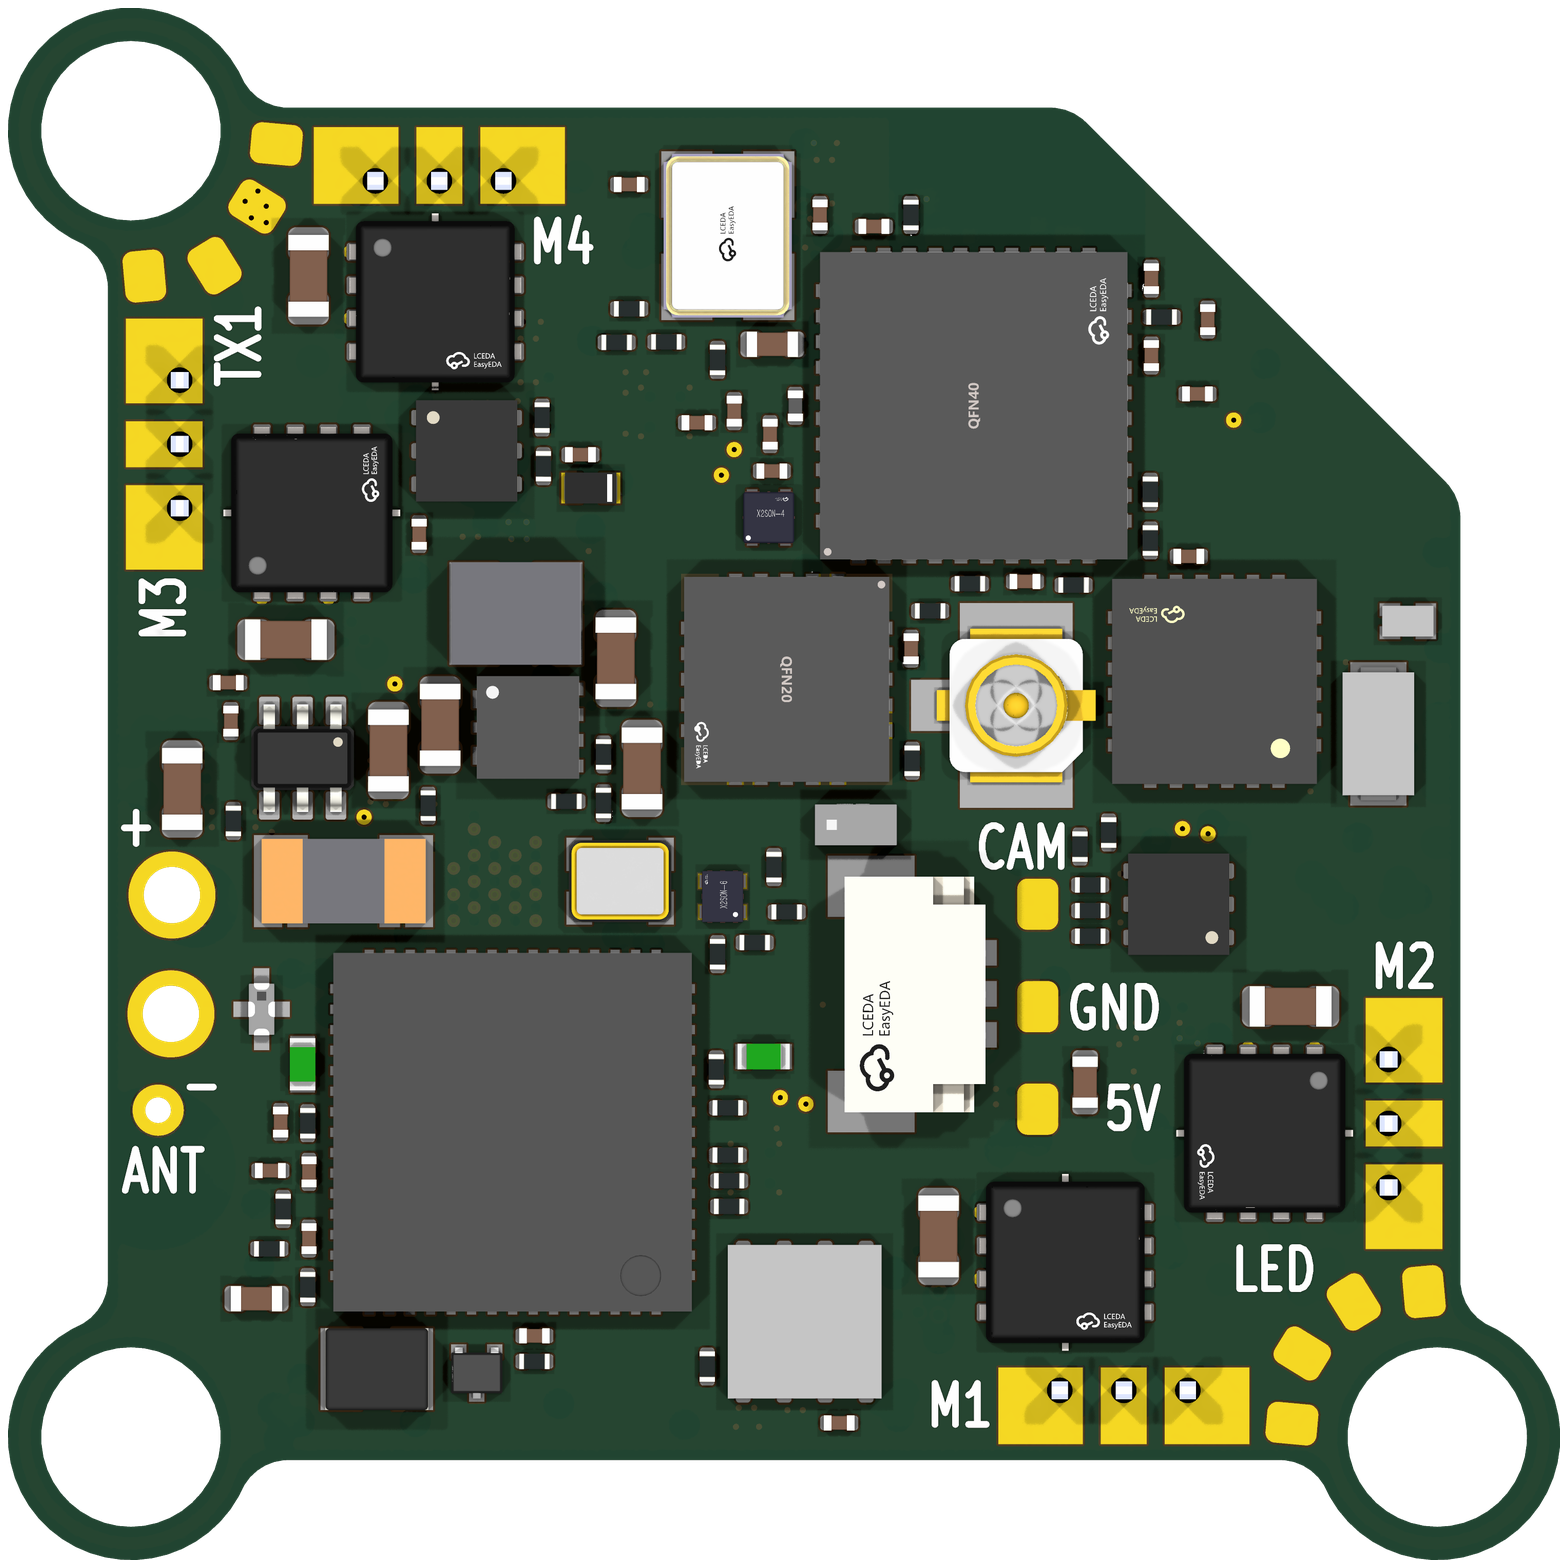
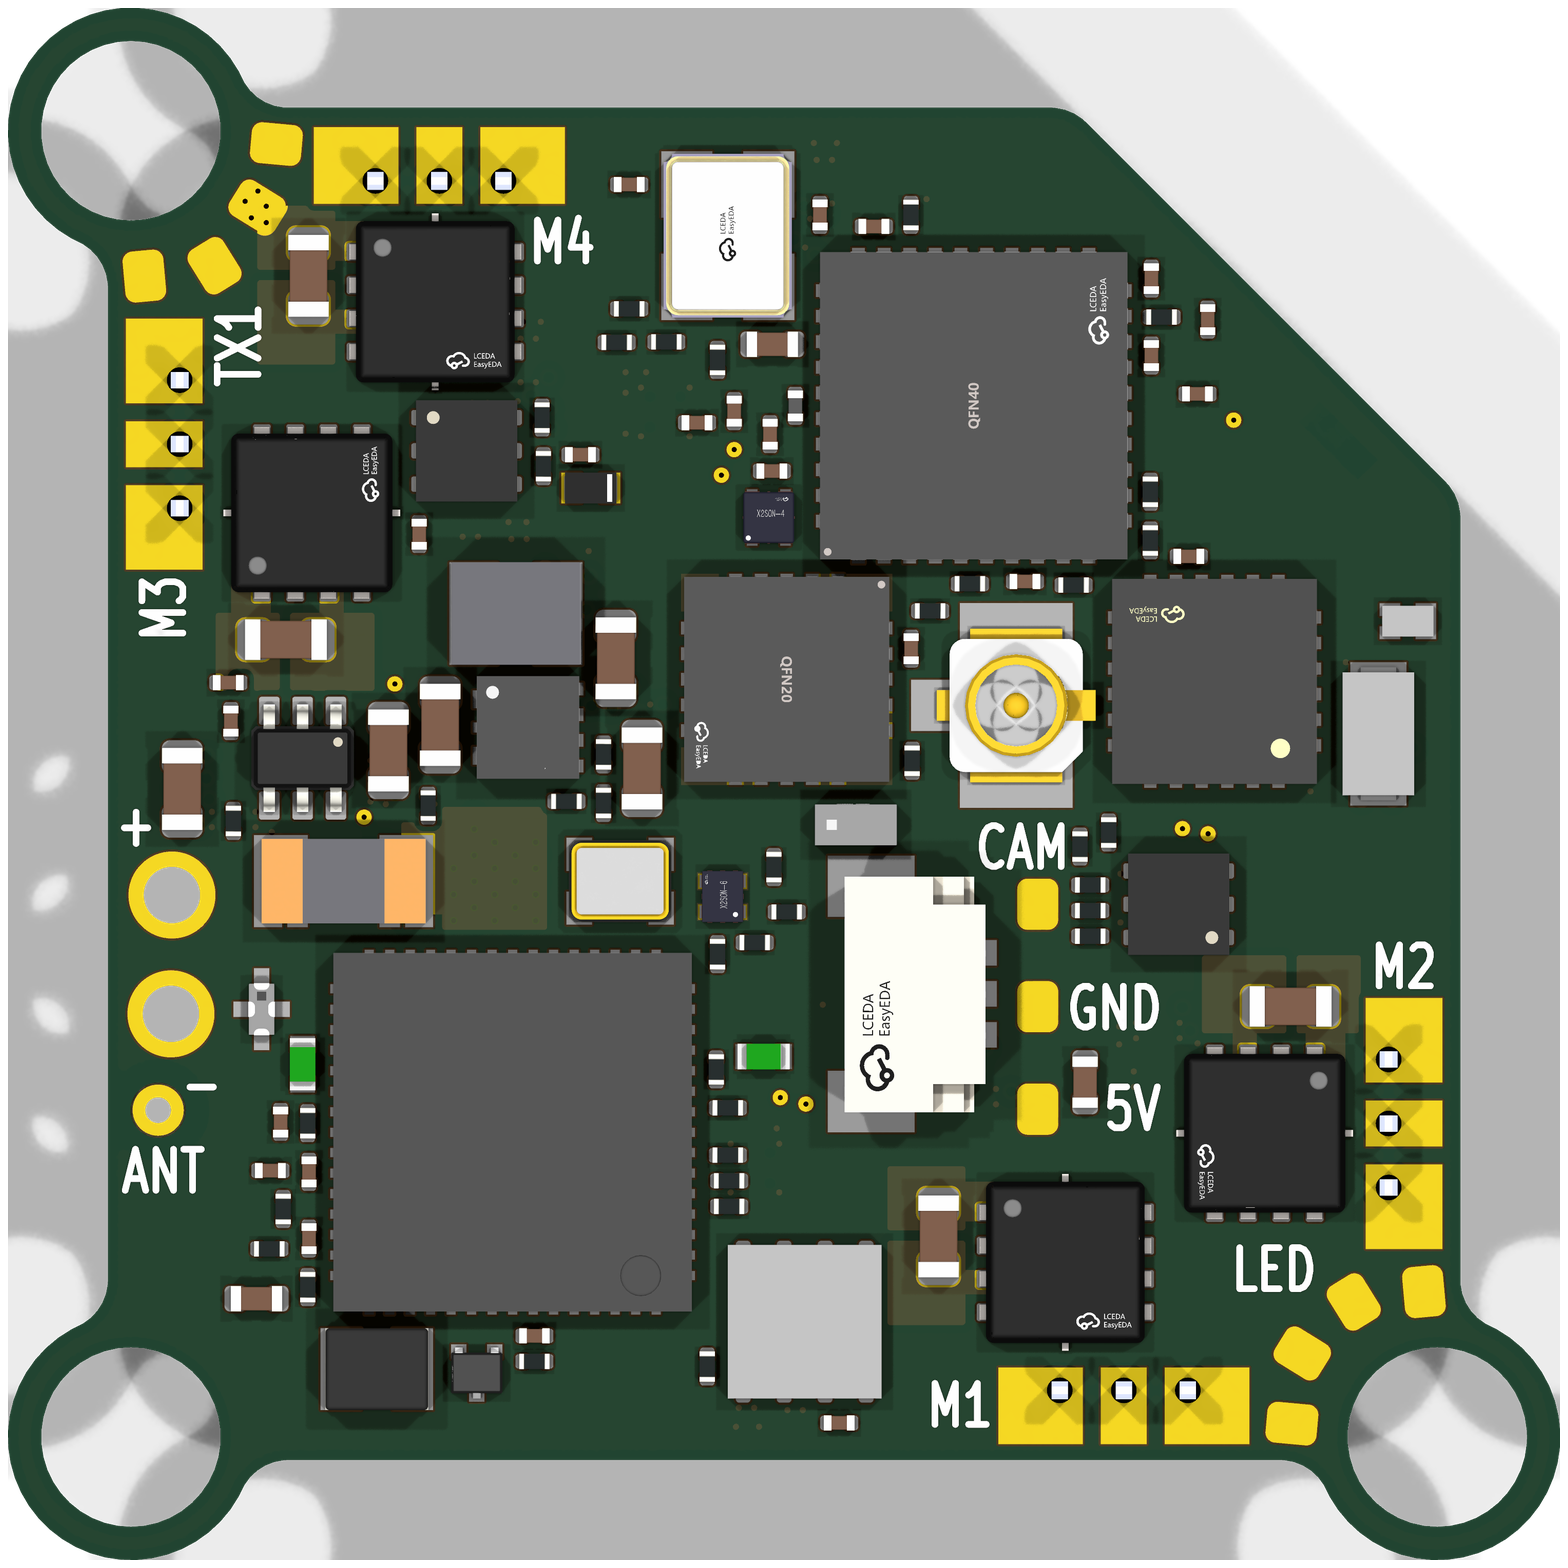
Hand-off verified in a clean clone: ERC 0 errors, DRC 0 errors / parity 0 with the repo files (with and without zone refill), all footprints and 3D models resolve; renders of the final board (4f845ba5), HANDOFF.md checks table and open items, AGENTS.md RF rule-area names
Claude-Session: https://claude.ai/code/session_01RFaS5jnC9tnPam9GBgmGnG

diff --git a/research/HANDOFF.md b/research/HANDOFF.md
@@ -13,9 +13,9 @@ yours.
 | Layout | `hardware/OpenAIO-Whoop.kicad_pcb` | placement, pours and rule areas; 0 tracks, 499 unrouted connections |
 | Library | `hardware/lib.kicad_sym`, `hardware/lib.pretty` (114 footprints), `hardware/lib.3dshapes`, `hardware/KiCad-Library` submodule (fdf8319) | every symbol, footprint and 3D model resolves from a fresh clone; see `research/LIBRARY.md` |
 | Rules | `hardware/OpenAIO-Whoop.kicad_pro` (net classes, HDI layer pairs), `hardware/OpenAIO-Whoop.kicad_dru` | both written by `hardware/tools/setup_board.py`; change the script and re-run it, do not hand-edit |
-| Renders | `images/front.png`, `images/back.png` | 3D renders of this board (8c6b06f8), with the optional motor headers shown fitted |
+| Renders | `images/front.png`, `images/back.png` | 3D renders of this board (4f845ba5), with the optional motor headers shown fitted |
 
-Placement facts (from the board, md5 8c6b06f8):
+Placement facts (from the board, md5 4f845ba5):
 
 - 266 footprints: 134 on the front, 132 on the back. 20 are DNP: the 4 motor
   headers J4/J7/J10/J13, the 13 battery and IO solder pads, the AE1 wire hole, and C132/C133
@@ -82,11 +82,12 @@ HDI 1+4+1 (D97, `research/FLOORPLAN-V4.md` section 18):
 
 | Check | Result | Files |
 |---|---|---|
-| `kicad-cli pcb drc --severity-all --schematic-parity --refill-zones` | 0 errors, parity 0, 499 unconnected. Warnings: isolated_copper 1 (the L3_UFL_REF island), lib_footprint_mismatch 2 (J31, J33), solder_mask_bridge 8, via_dangling 11 | board 8c6b06f8, `.kicad_pro` 80000762, `.kicad_dru` 8462081f, sheets unchanged since 4444859 (root e3af3f97) |
-| Same DRC in a clean `git clone` (offline submodule, empty HOME) | identical: 0 errors, parity 0 | board f662dcd7 (sync stage), not re-run for 8c6b06f8 |
-| `kicad-cli sch erc --severity-all` | 0 errors, 2 pin_to_pin warnings (U13 WP and HOLD tied to the U4 LDO output, justified in `research/SCHEMATIC.md`) | sheets at 4444859 |
-| `hardware/tools/check_conventions.py --stage planned` | 39 ok, 1 FAIL (B7: 6 pad labels, open item 9), 2 warn, 3 skip | board 8c6b06f8 |
-| ESC plane solve (`plane.py`: In3 only, 0.5 oz at 80 C, 12 A per ESC) | ESC1 33.7, ESC2 38.8, ESC3 22.0, ESC4 31.5 mV (unchanged) | board 8c6b06f8 with `.kicad_pro` 80000762 beside it |
+| `kicad-cli pcb drc --severity-all --schematic-parity`, with and without `--refill-zones` | 0 errors, parity 0, 499 unconnected. Warnings: isolated_copper 1 (the L3_UFL_REF island), lib_footprint_mismatch 2 (J31, J33), solder_mask_bridge 8, via_dangling 11. The zone fills are saved in the board, so the result is the same without a refill | board 4f845ba5, `.kicad_pro` 80000762, `.kicad_dru` 8462081f, sheets at 0ed1abd (root 25149953) |
+| Same DRC and ERC in a clean `git clone` (offline submodule, empty HOME, KiCad's default symbol table) | identical: DRC 0 errors, parity 0; ERC 0 errors | board 4f845ba5, sheets at 0ed1abd |
+| `kicad-cli sch erc --severity-all` | 0 errors, 2 pin_to_pin warnings (U13 WP and HOLD tied to the U4 LDO output, justified in `research/SCHEMATIC.md`) | sheets at 0ed1abd |
+| `hardware/tools/check_conventions.py --stage planned` | 39 ok, 1 FAIL (B7: 6 pad labels, open item 9), 2 warn, 3 skip | board 4f845ba5 |
+| `check_netlist.py`, `check_rules.py`, `setup_board.py --check` | 7 ok / 0 FAIL; custom rules parsed; project files up to date | board 4f845ba5 |
+| ESC plane solve (`plane.py`, a work script that is not in the repo: In3 only, 0.5 oz at 80 C, 12 A per ESC) | ESC1 33.7, ESC2 38.8, ESC3 22.0, ESC4 31.5 mV (unchanged) | board 4f845ba5 with `.kicad_pro` 80000762 beside it |
 
 ## What the router has to do
 
@@ -216,7 +217,16 @@ HDI 1+4+1 (D97, `research/FLOORPLAN-V4.md` section 18):
    away and re-check the mating clearance rule `USB_MATING`.
 9. **Pad labels (check_conventions B7): partly done.**
    - Every silk text outside the outline is deleted: 9 parked texts, `VTX`
-     included.
+     included. Two stray 0.29 mm silk circles about 40 mm left of the board
+     are deleted too.
+   - The Incutec logo LOGO1 (6.1 x 1.4 mm, F.Silkscreen) is still parked at
+     (189.7, 142.2), about 61 mm right of the board, so it is not on the
+     fabricated board. B3 passes because it only checks that the logo exists.
+     A search of the front (0.025 mm grid, 0 and 90 degrees, 0.15 mm from
+     pads, 0.20 mm from the edge and holes, 0.10 mm from other silk) found no
+     legal spot, even under part bodies. Owner's call: a smaller logo, the
+     back side, or room taken from the `OPENAIO WHOOP` / `REV1` texts. Do not
+     plot Gerbers with it parked off the board.
    - J25 GND and J28 TX1 now have aligned 0.8 mm labels.
    - Six pads on the hole webs still have none: J21 5V, J22 BZ-, J33 GND
      (right hole) and J26 VHD, J27 GND, J29 RX1 (left hole).
@@ -240,6 +250,12 @@ HDI 1+4+1 (D97, `research/FLOORPLAN-V4.md` section 18):
     run `check_conventions.py --stage alpha`. It adds the DOC_* variables, the
     alpha README shape, and the Status, Shop, Discord, Video and OSHWA badges.
     There is no shop listing or OSHWA certification yet, so those badges wait.
+13. **Stale board spec.** `hardware/tools/board_spec.json` is still the P1
+    spec: the pre-v4 outline (30.55 mm, 696.6 mm2, holes on 25.75 mm), a
+    0.20 mm microvia land and the v3 rule areas. `check_board_setup.py --spec
+    hardware/tools/board_spec.json` reports 24 of 31 keys. Without `--spec` it
+    only reports and exits clean. Update the spec to the v4 outline and HDI
+    via set, or retire it.
 
 Not covered here: routing, the fabrication outputs (Gerbers, BOM, CPL), and
 manufacturer quotes.

diff --git a/AGENTS.md b/AGENTS.md
@@ -133,10 +133,12 @@ target are in [research/PINMAP.md](research/PINMAP.md); the pad set is in
   from them, no stacking. Vias sit inside same-net pads; a free-standing via
   takes board space and is avoided.
 - RF nets carry no vias and keep 50 ohm width on the outer layers. Inside the
-  `RF_VTX_UFL` rule area F.Cu holds only RF and GND copper; In1 is cut out under
-  the U.FL signal pad.
-- AE1, the RX wire, leaves through a plated D0.5 hole with a copper keep-out
-  on L1-L5 around it. AE2 has no all-layer keep-out but minimal copper around
+  `RF_VTX_STRIP` rule area (0.5 mm around the 5.8 GHz chain) only GND vias are
+  allowed, so In1 stays solid under the line; `RF_PAD_CUTOUT` cuts In1 out
+  under the U.FL signal pad.
+- AE1, the RX wire, leaves through a plated D0.5 hole. Inside the D2.0
+  `RF_RX_HOLE` area pours are kept out on all layers and the only copper is the
+  2.4 GHz feed on L1. AE2 has no all-layer keep-out but minimal copper around
   it, with parts on the opposite side.
 - The 5 V boost hot loop closes on the component layer with a direct ground
   return: no via in the loop, unbroken GND under it, a small switch node, away
